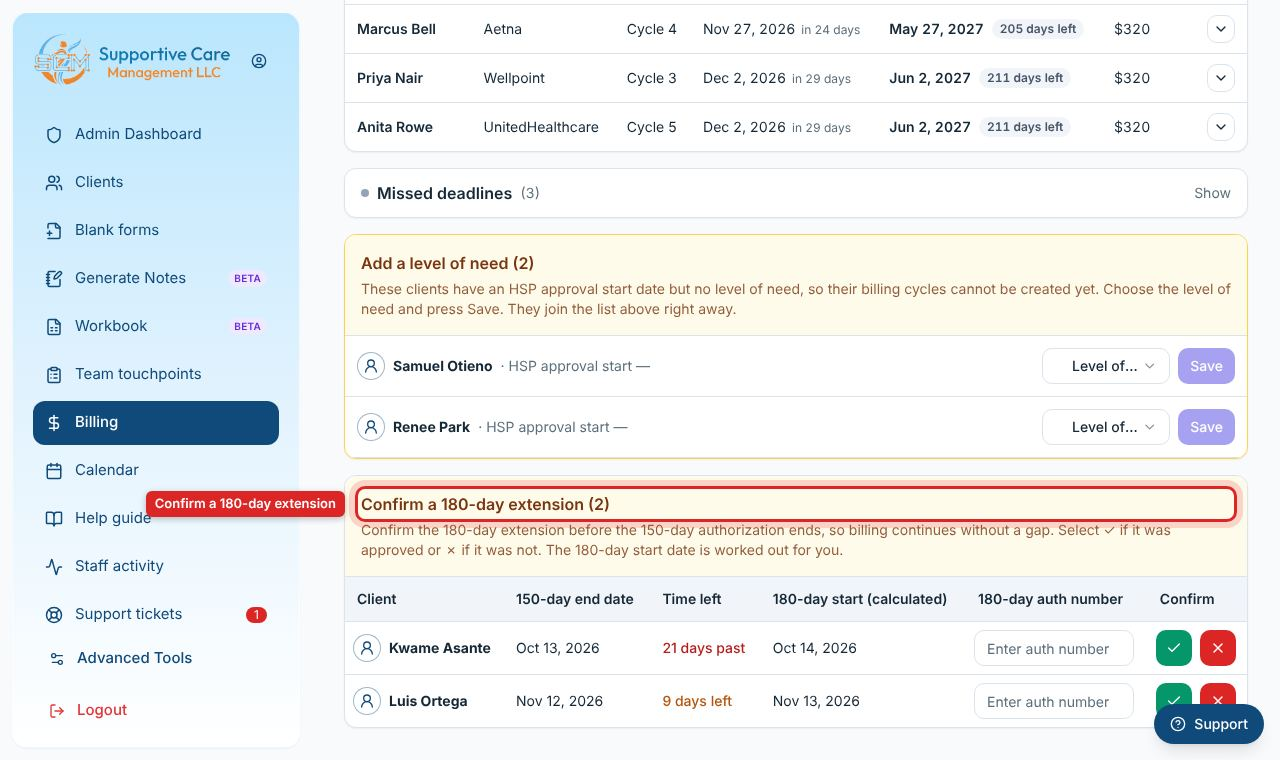
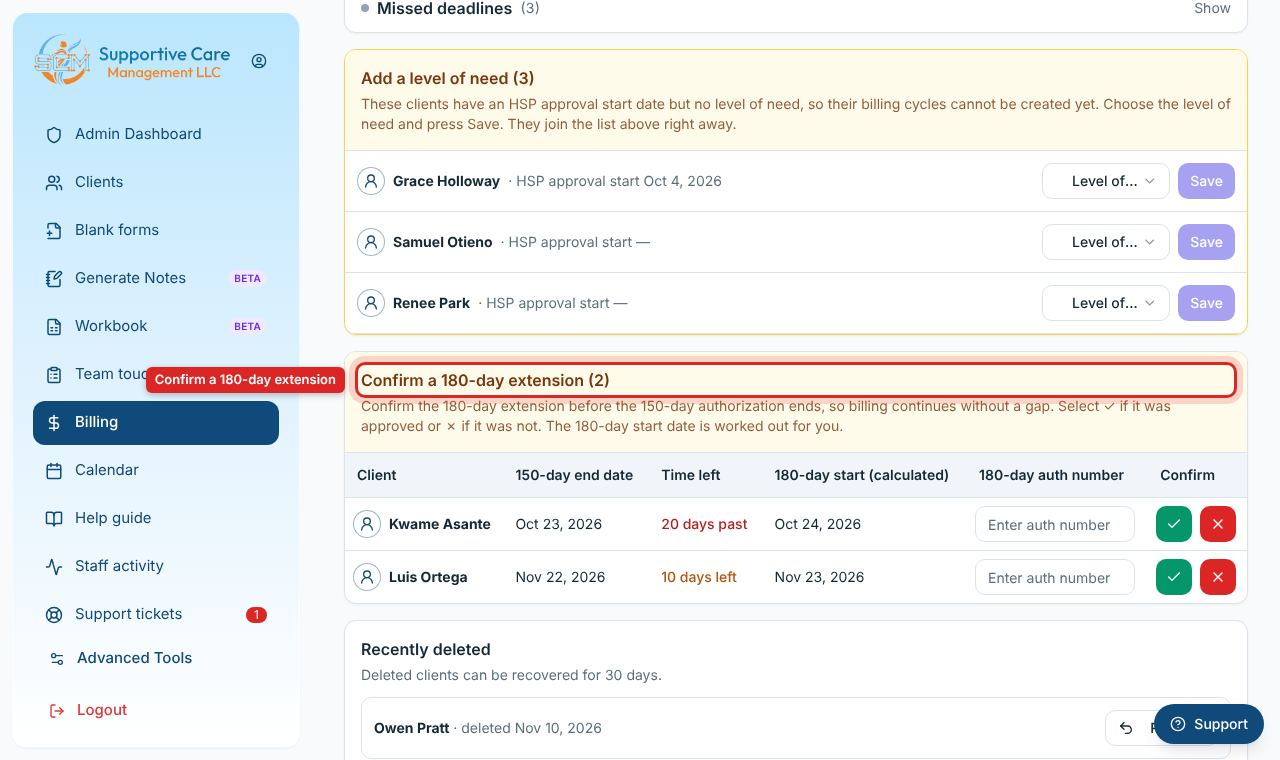
Help guide: every Billing task
New guides: Find the claims to file (the four To bill lists, filter,
a client's cycles), Add a level of need, Check a client's billing
details (profile, Edit authorization details, duplicate check), Enter
the agency's Availity details, Recover a deleted client, and See one
client's billing (client Billing tab).

File a claim now covers choosing the client, the eligibility check,
choosing the cycle, the diagnosis code and boxes saved to the client,
Mark cycle as billed and the touchpoint question. Record a payment adds
All, Pending, Paid, search and Not paid after all. Check revenue adds
the lost and pending income analysis and cycle breakdown. Use the
Workbook adds its tabs, Columns, removing columns and deleting a
client.

Revenue and a client's Billing tab are superadmin only, so their guides
use a new superadmins audience: shown to superadmins only, with a
Superadmins filter.

Sample data adds a client with no level of need and a recently deleted
client (made-up names). Screenshots taken for every Billing guide.

Claude-Session: https://claude.ai/code/session_01Rc3DZRj1KvyPeww1zhZ9DF

Changed region(s): [[0.0938, 0.0, 1.0, 0.9684], [0.5312, 0.8474, 0.6562, 0.8776], [0.9375, 0.0, 0.9688, 0.0303]]

diff --git a/src/lib/helpGuides.ts b/src/lib/helpGuides.ts
@@ -5,7 +5,8 @@
 // again whenever a screen changes). Keep the ids and step counts here in step
 // with the shots listed there.
 
-export type Audience = 'everyone' | 'admins';
+/** Case managers see everyone guides; admins also admins; superadmins all three. */
+export type Audience = 'everyone' | 'admins' | 'superadmins';
 
 export interface GuideStep {
   title: string;
@@ -347,26 +348,54 @@ export const GUIDES: Guide[] = [
 
   // ---- Billing
   {
+    id: 'to-bill', section: 'Billing', title: 'Find the claims to file', audience: 'admins', minutes: 2,
+    steps: [
+      s('Open To bill', 'Select Billing in the left panel. To bill is the first tab.'),
+      s('Read the four lists', 'File before the deadline: the last day to bill is within 30 days. Ready to bill: the cycle has ended, with more than 30 days left. Coming up: the cycle is still running. Missed deadlines: the six-month window has closed, shown for reference.'),
+      s('Find a client', 'Type a name, member ID or MCO in the filter box. Each list shows 7 rows at a time; use the arrows to see more.'),
+      s('See a client’s cycles', 'Select a row to see every cycle for that client, with its service dates, last day to bill and status. Select Open billing details to file the cycle you need.'),
+    ],
+  },
+  {
     id: 'file-claim', section: 'Billing', title: 'File a claim', audience: 'admins', minutes: 5,
     steps: [
-      s('Open To bill', 'Select Billing. File before the deadline lists the claims closest to their last day to bill, 7 at a time. Use the arrows to see more.'),
-      s('Open the cycle', 'Select the client’s row to see every cycle, then select Open billing details.'),
-      s('Copy into Availity', 'Copy each box from Eligibility and Benefits, then Claims and Encounters. Check orange boxes first.'),
-      s('Mark it billed', 'Select Mark cycle as billed. The claim moves to Filed claims.'),
+      s('Choose the client', 'In To bill, select a client under “The following claims must be submitted this month”, or search for another client by name or member ID. You can also select Open billing details on a client’s row.'),
+      s('Check eligibility', 'The Availity window opens on Eligibility and Benefits. Copy each box into Availity with the copy button beside it, then press Submit on the Availity page.'),
+      s('Choose the cycle', 'Select Claims and Encounters, then select the cycle under Eligible billing cycles. Each shows its days left; a cycle past the six-month window cannot be chosen.'),
+      s('Copy the claim', 'Copy each box into Availity. Check orange boxes first: a blank date of birth, member ID or address can be typed in here and is saved to the client. Choose the diagnosis code from the list, or Another code to type one. In Availity, press Continue, then submit the claim.'),
+      s('Mark it billed', 'After Availity accepts the claim, select Mark cycle as billed. It saves today as the date billed and the control number as the claim number, and the claim moves to Filed claims. Select Save to client details to keep any changes without marking it billed.'),
+      s('Answer the touchpoint question', 'Billing then asks whether the client’s touchpoints are entered. Select Yes, already entered, or No, add a touchpoint now to log one.'),
     ],
   },
   {
     id: 'record-payment', section: 'Billing', title: 'Record a payment or denial', audience: 'admins', minutes: 1,
     steps: [
-      s('Open Filed claims', 'In Billing, select Filed claims, then Pending.'),
-      s('Record the outcome', 'Select Mark paid, or Denied to return the cycle to To bill.'),
+      s('Open Filed claims', 'In Billing, select Filed claims. Choose All, Pending or Paid, or search by name or member ID.'),
+      s('Record the outcome', 'Select Mark paid when the MCO pays. Select Denied to send the cycle back to To bill to file again.'),
+      s('Correct a payment', 'If a claim was marked paid by mistake, select Not paid after all. It goes back to Pending.'),
     ],
   },
   {
-    id: 'revenue', section: 'Billing', title: 'Check revenue', audience: 'admins', minutes: 1,
+    id: 'revenue', section: 'Billing', title: 'Check revenue', audience: 'superadmins', minutes: 2,
     steps: [
       s('Open Revenue', 'In Billing, select Revenue.'),
-      s('Read the months', 'The cards show this month’s billing, collections and pending claims. The table covers two months back and three ahead.'),
+      s('Read the months', 'The cards show what was collected this month (claims marked paid) and what is waiting on the MCO (filed, not paid yet). By month covers two months back and three ahead, with billed against expected.'),
+      s('Find lost and pending income', 'Select Analyze lost and pending income. Lost income is ended cycles never billed and now past the six-month deadline. Pending income is ended cycles not billed yet that can still be filed.'),
+      s('See the cycles behind a total', 'Select a month to list its clients, then select Open cycle breakdown beside a client. Select Back to current revenue to return.'),
+    ],
+  },
+  {
+    id: 'client-billing', section: 'Billing', title: 'See one client’s billing', audience: 'superadmins', minutes: 1,
+    steps: [
+      s('Open the Billing tab', 'Open the client and select Billing.'),
+      s('Read the cycles', 'Each cycle shows what is expected, submitted, collected, outstanding and past due, with the client’s phase, level of need and next due date.'),
+    ],
+  },
+  {
+    id: 'add-level-of-need', section: 'Billing', title: 'Add a level of need', audience: 'admins', minutes: 1,
+    steps: [
+      s('Find the client', 'Near the bottom of To bill, Add a level of need lists clients with an HSP approval start date but no level of need. Their billing cycles cannot be made until it is added.'),
+      s('Choose and save', 'Choose Low or High and select Save. The client joins the lists above right away.'),
     ],
   },
   {
@@ -377,6 +406,21 @@ export const GUIDES: Guide[] = [
     ],
   },
   {
+    id: 'billing-profile', section: 'Billing', title: 'Check a client’s billing details', audience: 'admins', minutes: 2,
+    steps: [
+      s('Open the profile', 'In Add a level of need or Confirm a 180-day extension, select the person icon beside the client’s name.'),
+      s('Edit the details', 'The profile shows the client’s contact details, authorizations and billing setup. Select Edit authorization details to change the authorization dates and numbers.'),
+      s('Save', 'Select Save changes. If the details match another client, a message asks whether this client already exists: select Go to that client to check it, or No, keep the new client.'),
+    ],
+  },
+  {
+    id: 'agency-details', section: 'Billing', title: 'Enter the agency’s Availity details', audience: 'admins', minutes: 3,
+    steps: [
+      s('Open the agency details', 'In To bill, select Edit agency details at the top right. A message in the Availity window says when some are missing.'),
+      s('Fill in and save', 'Enter the organization, provider name, NPI, EIN, specialty code, billing address, contact and payer names. Select Save Availity details. They fill the agency’s boxes on every claim.'),
+    ],
+  },
+  {
     id: 'workbook', section: 'Billing', title: 'Use the Workbook', audience: 'admins', minutes: 3,
     steps: [
       s('Open the Workbook', 'Select Workbook in the left panel. Select Full screen for more room.'),
@@ -384,8 +428,18 @@ export const GUIDES: Guide[] = [
       s('Add a row', 'Select Add row, beside the search box, to add a client.'),
       s('Arrange columns and rows', 'Drag a column heading by its dotted handle, or a row number, to move it. Drag an edge to resize. The layout is shared with your team.'),
       s('Sort and filter', 'Select Filter. Sort client names A–Z or Z–A, and choose a value under columns with only a few options, such as MCO.'),
-      s('Add and rename tabs', 'Select + beside the tabs to add one. Right-click a tab to rename it. An added tab keeps its own search, filters and sort.'),
+      s('Use the tabs', 'Master lists every client. Pending approval, Approved and Closed show those clients. Billing tracker lists each client’s next claim, soonest deadline first. 2nd authorization lists lapsed authorizations (see Follow up a lapsed authorization).'),
+      s('Add and rename tabs', 'Select + beside the tabs to add one. Right-click a tab to rename it, or to delete one you added. An added tab keeps its own search, MCO, filters and sort.'),
+      s('Show and hide columns', 'Select Columns to bring back a removed column, or Reset column and row layout to start over. To remove a column, select Edit and then the X on its heading. Select Undo in the message to bring it back.'),
+      s('Delete a client', 'Select Edit, then the trash icon on the client’s row, then Delete client. They are removed from the workbook, billing and the client list, and can be recovered for 30 days. Select Done editing when finished.'),
       s('Export', 'Select Download as Excel to save every tab.'),
+    ],
+  },
+  {
+    id: 'recover-client', section: 'Billing', title: 'Recover a deleted client', audience: 'admins', minutes: 1,
+    steps: [
+      s('Find the client', 'At the bottom of To bill, Recently deleted lists clients deleted in the last 30 days.'),
+      s('Select Recover', 'Select Recover beside the client. They return to the client list, billing and the workbook.'),
     ],
   },
   {

diff --git a/src/pages/HelpGuide.tsx b/src/pages/HelpGuide.tsx
@@ -15,7 +15,7 @@ import { useViewAs } from '@/components/ViewAsProvider';
 import { GUIDES, SECTIONS, shotFor, type Guide } from '@/lib/helpGuides';
 import { PageShell } from '@/components/PageShell';
 
-type Filter = 'all' | 'everyone' | 'admins';
+type Filter = 'all' | 'everyone' | 'admins' | 'superadmins';
 
 export default function HelpGuide() {
   const { isAdmin } = useIsAdmin();
@@ -33,10 +33,15 @@ export default function HelpGuide() {
   // guides. Listed in section order, so Getting started comes last.
   const available = useMemo(
     () =>
-      GUIDES.filter((g) => admin || g.audience === 'everyone').sort(
+      GUIDES.filter(
+        (g) =>
+          g.audience === 'everyone' ||
+          (admin && g.audience === 'admins') ||
+          (isSuperadmin && g.audience === 'superadmins'),
+      ).sort(
         (a, b) => SECTIONS.indexOf(a.section as (typeof SECTIONS)[number]) - SECTIONS.indexOf(b.section as (typeof SECTIONS)[number]),
       ),
-    [admin],
+    [admin, isSuperadmin],
   );
   const shown = useMemo(() => {
     const q = query.trim().toLowerCase();
@@ -84,6 +89,7 @@ export default function HelpGuide() {
               ['all', 'All guides'],
               ['everyone', 'Case managers'],
               ['admins', 'Admins'],
+              ['superadmins', 'Superadmins'],
             ] as const).map(([value, label]) => (
               <Button
                 key={value}
@@ -119,8 +125,10 @@ export default function HelpGuide() {
                       }`}
                     >
                       <span className="flex-1">{g.title}</span>
-                      {g.audience === 'admins' && (
-                        <span className="rounded border px-1.5 text-[11px] font-semibold text-muted-foreground">Admin</span>
+                      {g.audience !== 'everyone' && (
+                        <span className="rounded border px-1.5 text-[11px] font-semibold text-muted-foreground">
+                          {g.audience === 'admins' ? 'Admin' : 'Superadmin'}
+                        </span>
                       )}
                     </button>
                   ))}
@@ -136,7 +144,7 @@ export default function HelpGuide() {
                 <p className="text-sm text-muted-foreground">{current.section}</p>
                 <h2 className="text-2xl font-bold">{current.title}</h2>
                 <p className="flex flex-wrap gap-x-4 text-sm text-muted-foreground">
-                  <span className="font-semibold text-foreground">{current.audience === 'admins' ? 'For admins' : 'For everyone'}</span>
+                  <span className="font-semibold text-foreground">{current.audience === 'admins' ? 'For admins' : current.audience === 'superadmins' ? 'For superadmins' : 'For everyone'}</span>
                   <span>{current.steps.length} steps</span>
                   <span>About {current.minutes} minute{current.minutes === 1 ? '' : 's'}</span>
                 </p>

diff --git a/scripts/help-screenshots/mock/seed.ts b/scripts/help-screenshots/mock/seed.ts
@@ -21,7 +21,7 @@ const staff = [
   { id: 'p-sam', user_id: 'u-sam', first_name: 'Sam', last_name: 'Ellis', email: 'sam.ellis@example.org', role: 'employee', active: false },
 ];
 
-interface C { f: string; l: string; mco: string; mem: string; owner: string; start: number; level?: string; status?: string; approval?: string; lapsed?: boolean }
+interface C { f: string; l: string; mco: string; mem: string; owner: string; start: number; level?: string; status?: string; approval?: string; lapsed?: boolean; deleted?: number }
 const people: C[] = [
   { f: 'Dana', l: 'Whitfield', mco: 'Horizon', mem: '70114238', owner: 'p-staff', start: -140, level: 'Low Level' },
   { f: 'Marcus', l: 'Bell', mco: 'Aetna', mem: '042219388101', owner: 'p-staff', start: -95, level: 'Low Level' },
@@ -32,6 +32,10 @@ const people: C[] = [
   { f: 'Anita', l: 'Rowe', mco: 'UnitedHealthcare', mem: 'UH4410078', owner: 'p-morgan', start: -120, level: 'Low Level' },
   { f: 'Samuel', l: 'Otieno', mco: 'Horizon', mem: '70331876', owner: 'p-morgan', start: -12 },
   { f: 'Helen', l: 'Brooks', mco: 'Wellpoint', mem: 'WP90550127', owner: 'p-riley', start: -75, level: 'Low Level', lapsed: true },
+  // No level of need yet, for Billing's Add a level of need.
+  { f: 'Grace', l: 'Holloway', mco: 'Aetna', mem: '042551203307', owner: 'p-morgan', start: -70 },
+  // Deleted three days ago, for Billing's Recently deleted.
+  { f: 'Owen', l: 'Pratt', mco: 'Horizon', mem: '70419902', owner: 'p-riley', start: -90, level: 'Low Level', deleted: -3 },
   { f: 'Carla', l: 'Mendes', mco: 'Aetna', mem: '031550982201', owner: 'p-staff', start: -300, level: 'Low Level', status: 'closed' },
 ];
 
@@ -75,7 +79,7 @@ export function seed(): Tables {
       closed_date: p.status === 'closed' ? day(-20) : null,
       reason_closed: p.status === 'closed' ? 'Housed' : null,
       notes: null,
-      deleted_at: null,
+      deleted_at: p.deleted !== undefined ? at(p.deleted) : null,
       created_at: at(p.start - 5),
       updated_at: at(-1),
       county: 'Mercer',
